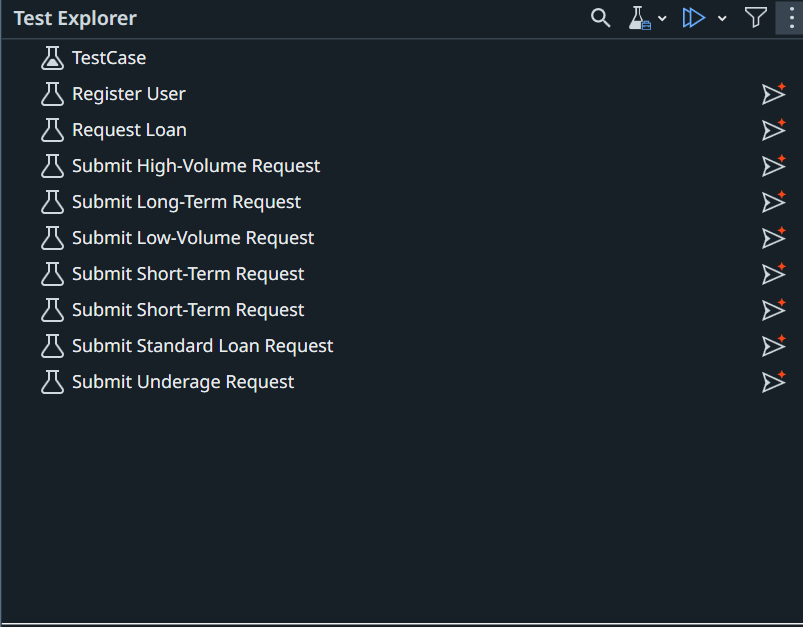
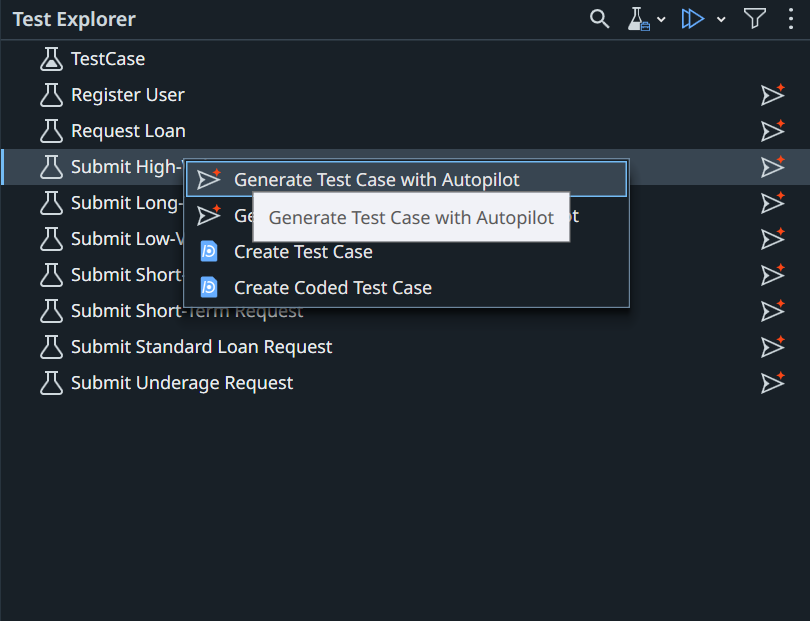
Show the Generate Test Case with Autopilot menu in the step 6 screenshot

Changed region(s): [[0.0, 0.0, 1.0, 0.6425], [0.0, 0.9791, 1.0, 1.0], [0.934, 0.3671, 0.9963, 0.6425]]

diff --git a/docs/module-2-hands-on-workshop/06-automate-and-publish.md b/docs/module-2-hands-on-workshop/06-automate-and-publish.md
@@ -42,7 +42,7 @@ Automate **every** test case with the **Coding Agent WS** label: the 3 or more y
 
 1. In **Test Explorer**, right-click one of these test cases → **Generate Test Case with Autopilot**.
 
-    ![Test Explorer listing the UiBank test cases](../assets/images/testExplorer.png)
+    ![Generate Test Case with Autopilot in the Test Explorer right-click menu](../assets/images/testExplorer.png)
 
 2. Review it like a pull request: Given / When / Then sections, one verification for the expected result, **Object Repository** elements only, and no fixed **Delay** activities. If not, ask Delegate to fix it.
 3. Check the **Use Application/Browser** cards. The data-driven test in the next section must open and close the app once per row, and your requirement and test case may not say so.
